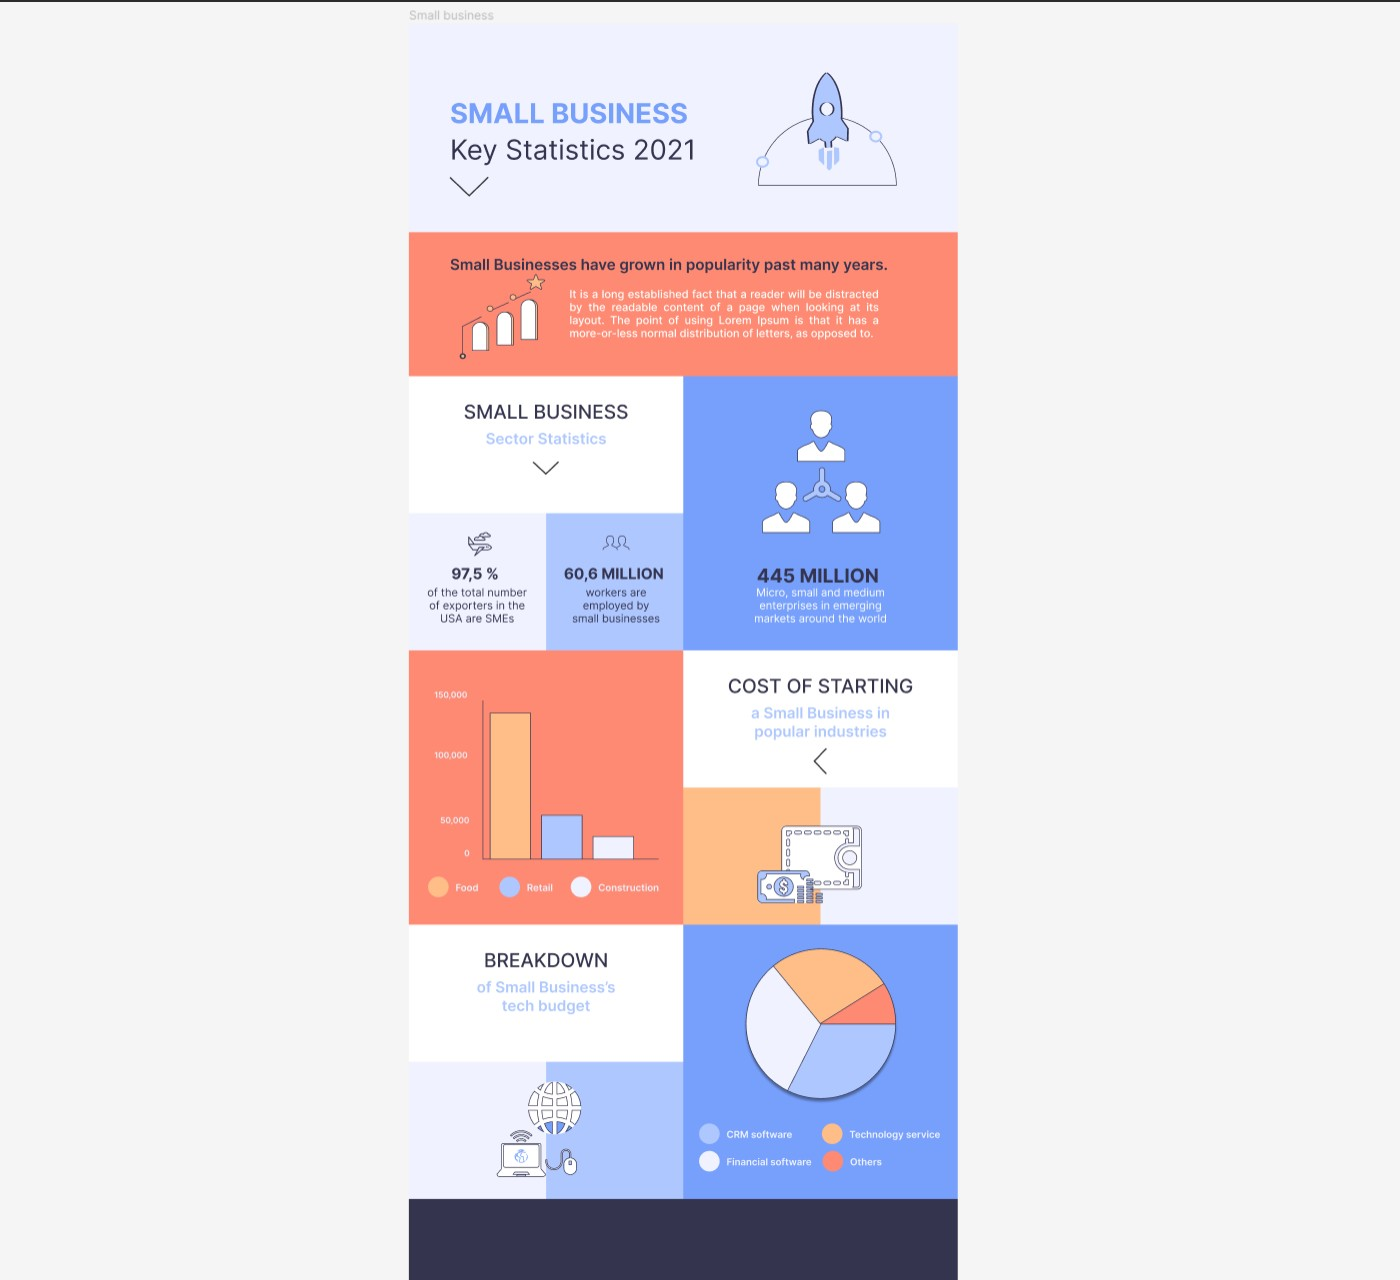
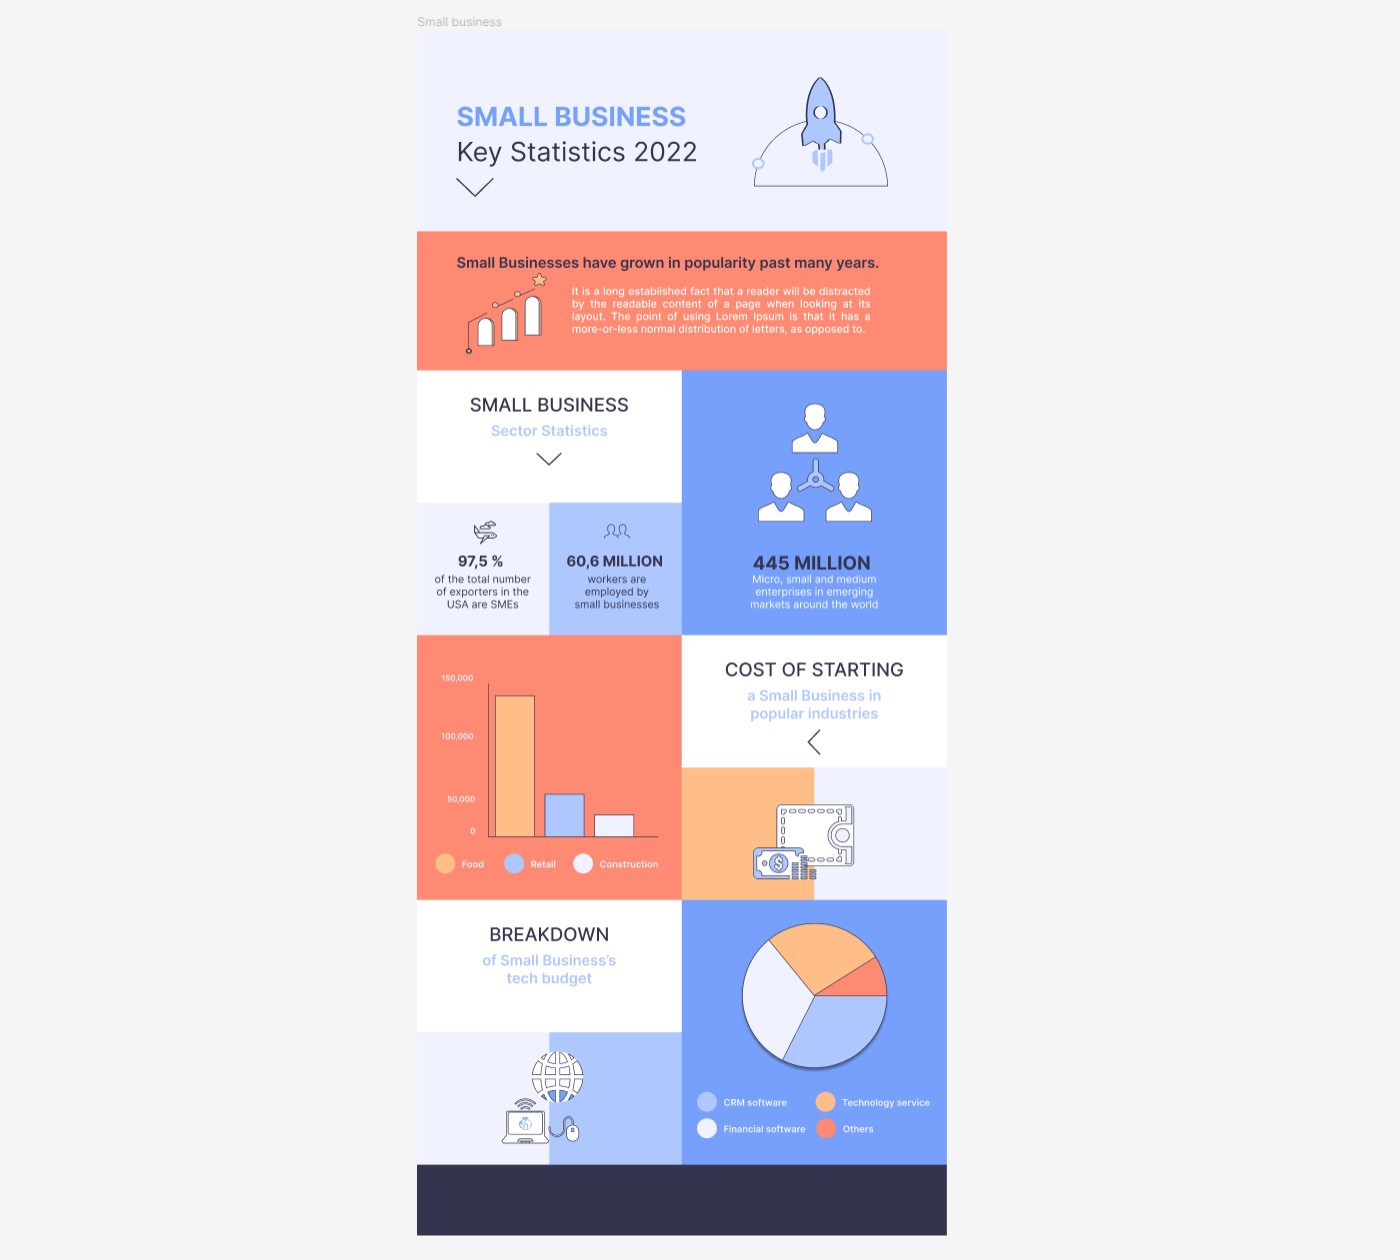
15/12/22

Changed region(s): [[0.2764, 0.1857, 0.7064, 1.0], [0.2764, 0.0619, 0.6757, 0.3095], [0.2764, 0.0, 0.3686, 0.031]]

diff --git a/index.html b/index.html
@@ -195,114 +195,95 @@
           <!-- <p>GitHub my repositories (code): <a href="https://github.com/MarinaStepok?tab=repositories" target="_blank">GitHub here</a> </p> -->
         </div>
 
-        <div class="row">
-          <div class="col-md-6 mb-3">
+        <div class="row gy-4">
+          <div class="col-md-6">
             <div class="card text-center">
               <img src="assets/img/landing-1.jpg" class="card-img-top" alt="...">
               <!-- <iframe style="border: 1px solid rgba(0, 0, 0, 0.1);" margin-top: ; width="414.03" height="380" src="https://www.figma.com/embed?embed_host=share&url=https%3A%2F%2Fwww.figma.com%2Ffile%2FpR7SwbMMGBkhWVLRMB0ULa%2FDesign-(Woodtech)%3Fnode-id%3D0%253A1" allowfullscreen></iframe> -->
               <div class="card-body">
-                <p class="card-title">Responsible design : desktop - tablet - mobile</p>
+                <p class="card-title">Responsive landing page design : desktop - tablet - mobile</p>
                 <p class="card-text"></p>
                 <a href="https://www.figma.com/file/wsqSYWrOIbRB2LlOUjuy8k/Untitled?node-id=0%3A1&t=vS4HM8iqtWChxsj6-1" target="_blank" class="btn btn-primary">Voir</a> 
               </div>
             </div>
           </div>
 
-          <div class="col-md-6 mb-3">
+          <div class="col-md-6">
             <div class="card text-center">
-              <img src="assets/img/design1.1.jpg" class="card-img-top" alt="...">
+              <img src="assets/img/design-website.jpg" class="card-img-top" alt="...">
               <div class="card-body">
-                <p class="card-title">Design website</p>
+                <p class="card-title">Website design</p>
                 <p class="card-text"></p>
                 <a href="https://www.figma.com/file/pR7SwbMMGBkhWVLRMB0ULa/Design-(Woodtech)?node-id=0%3A1&t=WV1Jw3OywnXfDKEU-1" target="_blank" class="btn btn-primary">Voir</a> 
               </div>
             </div>
           </div>
 
-
-        </div>
-
-        <div class="row">
-          <div class="col-lg-4 col-md-6 mb-3">
+          <div class="col-lg-4 col-md-6">
             <div class="card text-center">
               <img src="assets/img/infographic-1.jpg" class="card-img-top" alt="...">
               <!-- <iframe style="border: 1px solid rgba(0, 0, 0, 0.1);" margin-top: ; width="414.03" height="380" src="https://www.figma.com/embed?embed_host=share&url=https%3A%2F%2Fwww.figma.com%2Ffile%2FpR7SwbMMGBkhWVLRMB0ULa%2FDesign-(Woodtech)%3Fnode-id%3D0%253A1" allowfullscreen></iframe> -->
               <div class="card-body">
-                <p class="card-title">Infographie statistique avec Figma</p>
+                <p class="card-title">Infographie statistique "Small business - key statistics 2022"</p>
                 <p class="card-text"></p>
                 <a href="https://www.figma.com/file/Dvq2qi7IJEfz6Vrbs113Ls/Untitled?node-id=1%3A3&t=AN7xrHWRNVdQMrIC-1" target="_blank" class="btn btn-primary">Voir</a> 
               </div>
             </div>
           </div>
 
-          <div class="col-lg-4 col-md-6 mb-3">
+          <div class="col-lg-4 col-md-6">
             <div class="card text-center">
               <img src="assets/img/infographic-2.jpg" class="card-img-top" alt="...">
               <div class="card-body">
-                <p class="card-title">Infographie statistique avec Figma</p>
+                <p class="card-title">Infographie statistique "Get to know your customers"</p>
                 <p class="card-text"></p>
                 <a href="https://www.figma.com/file/17ellIIW77xdozSQlTLaSg/Untitled?node-id=0%3A1&t=EyzIlm1HtNFz53ID-1" target="_blank" class="btn btn-primary">Voir</a> 
               </div>
             </div>
           </div>
 
-          <div class="col-lg-4 col-md-6 mb-3">
+          <div class="col-lg-4 col-md-6">
             <div class="card text-center">
-              <img src="assets/img/infographic-3.1.jpg" class="card-img-top" alt="...">
+              <img src="assets/img/infographic-3.jpg" class="card-img-top" alt="...">
               <div class="card-body">
                 <!-- <p class="card-title">HTML, CSS, Bootstrap 5, JavaScript (menu fixe et portfolio de photos), PHP (formulaire de contact) </p> -->
-                <p class="card-title">Infographie statistique avec Figma</p>
+                <p class="card-title">Infographie statistique "Social media facts" &amp "Facebook statistics"</p>
                 <!-- <h5 class="card-title">Mogo</h5> -->
                 <p class="card-text"></p>
                 <a href="https://www.figma.com/file/cinsXiGGETMpJUYbM5Ze1D/Untitled?node-id=0%3A1&t=795Wo2eA9PWf9bhs-1" target="_blank" class="btn btn-primary">Voir</a> 
               </div>
             </div>
           </div>
-        </div>
 
-        <div class="row">
-          <!-- <div class="col-lg-4 col-md-6 mb-3">
-            <div class="card text-center">
-              <img src="assets/img/design1.jpg" class="card-img-top" alt="...">
-              <div class="card-body">
-                <p class="card-title">Design avec Figma </p>
-                <p class="card-text"></p>
-                <a href="https://www.figma.com/file/pR7SwbMMGBkhWVLRMB0ULa/Design-(Woodtech)?node-id=0%3A1&t=WV1Jw3OywnXfDKEU-1" target="_blank" class="btn btn-primary">Voir</a> 
-              </div>
-            </div>
-          </div> -->
-
-          <div class="col-md-6 mb-3">
+          <div class="col-md-6">
             <div class="card text-center">
               <img src="assets/img/prototype1.jpg" class="card-img-top" alt="...">
               <div class="card-body">
-                <p class="card-title">Maquette avec Drawio-app</p>
+                <p class="card-title">Wireframe website avec Drawio-app</p>
                 <p class="card-text"></p>
                 <a href="https://drive.google.com/file/d/13uftcPHf1RLtNfsRHxOUBf4tMIetgc0R/view?usp=sharing" target="_blank" class="btn btn-primary">Voir</a> 
               </div>
             </div>
           </div>
 
-          <div class="col-md-6 mb-3">
+          <div class="col-md-6">
             <div class="card text-center">
-              <img src="assets/img/photographe.jpg" class="card-img-top" alt="...">
+              <img src="assets/img/photographer.jpg" class="card-img-top" alt="...">
               <div class="card-body">
                 <!-- <p class="card-title">HTML, CSS, Bootstrap 5, JavaScript (menu fixe et portfolio de photos), PHP (formulaire de contact) </p> -->
-                <p class="card-title">Responsible design, HTML &amp CSS, Bootstrap 5, JavaScript, PHP</p>
+                <p class="card-title">HTML &amp CSS, Bootstrap 5, l'adaptabilité pour tous les appareils, JavaScript, PHP</p>
                 <!-- <h5 class="card-title">Mogo</h5> -->
                 <p class="card-text"></p>
                 <a href="https://marinastepok.github.io/Aureline-roy/" target="_blank" class="btn btn-primary">Voir</a> 
               </div>
             </div>
           </div>
-        </div>
 
-        <div class="row">
-          <div class="col-md-6 mb-3">
+          <div class="col-md-6">
             <div class="card text-center">
-              <img src="assets/img/webdevblog.png" class="card-img-top" alt="...">
+              <img src="assets/img/webdevblog.jpg" class="card-img-top" alt="...">
               <div class="card-body">
-                <p class="card-title">Responsible design, HTML &amp CSS, Bootstrap 5</p>
+                <p class="card-title">HTML &amp CSS, Bootstrap 5, l'adaptabilité pour tous les appareils</p>
                 <!-- <h5 class="card-title">Webdevblog</h5> -->
                 <p class="card-text"></p>
                 <a href="https://marinastepok.github.io/Webdevblog/" target="_blank" class="btn btn-primary">Voir</a>
@@ -310,19 +291,19 @@
             </div>
           </div>
 
-          <div class="col-md-6 mb-3">
+          <div class="col-md-6">
             <div class="card text-center">
-              <img src="assets/img/mogo.png" class="card-img-top" alt="...">
+              <img src="assets/img/mogo.jpg" class="card-img-top" alt="...">
               <div class="card-body">
-                <p class="card-title">Responsible design, HTML &amp CSS</p>
+                <p class="card-title">HTML &amp CSS, l'adaptabilité pour tous les appareils</p>
                 <!-- <h5 class="card-title">Mogo</h5> -->
                 <p class="card-text"></p>
                 <a href="https://marinastepok.github.io/mogo/" target="_blank" class="btn btn-primary">Voir</a>
               </div>
             </div>
           </div>
-  
-          <!-- <div class="col-lg-4 col-md-6 mb-3">
+
+          <!-- <div class="col-lg-4 col-md-6">
             <div class="card text-center">
               <img src="assets/img/landing-page.png" class="card-img-top" alt="...">
               <div class="card-body">
@@ -332,7 +313,11 @@
               </div>
             </div>
           </div> -->
+
         </div>
+        <!-- end row -->
+
+    
 
       </section><!-- End JS-30 Section -->
 
